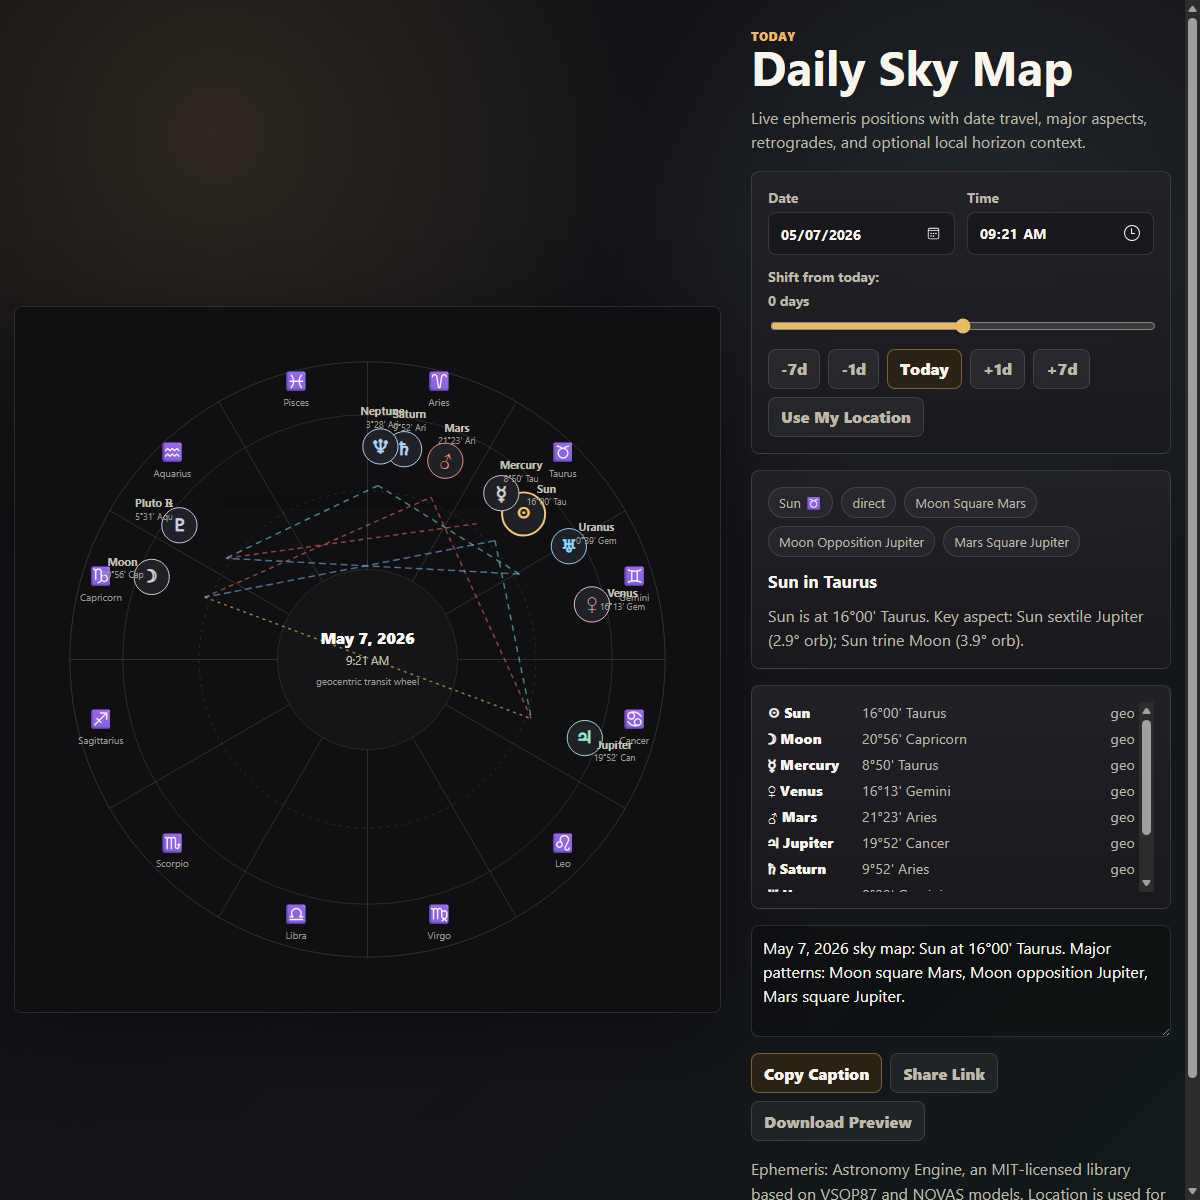
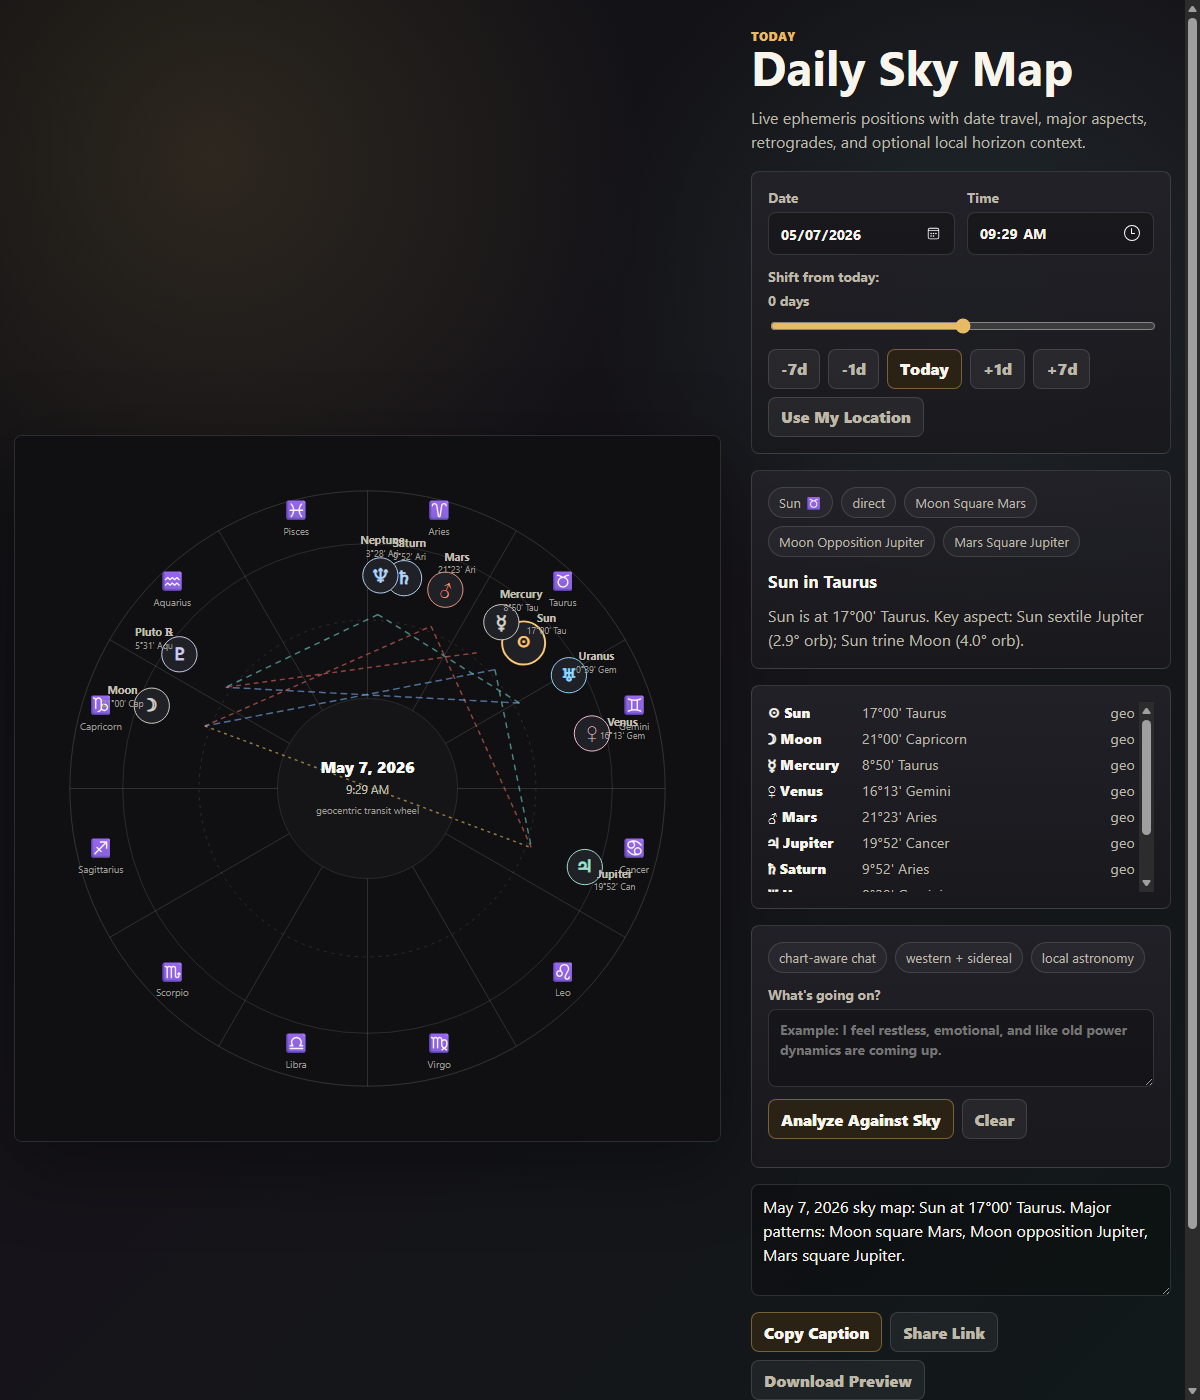
Add chart-aware chat analyzer

diff --git a/index.html b/index.html
@@ -127,6 +127,12 @@
       font: inherit;
     }
 
+    .chat-input {
+      min-height: 78px;
+      resize: vertical;
+      line-height: 1.45;
+    }
+
     input[type="range"] {
       padding: 0;
       accent-color: var(--gold);
@@ -212,6 +218,43 @@
       line-height: 1.5;
     }
 
+    .chat-log {
+      display: grid;
+      gap: 10px;
+      max-height: 260px;
+      overflow: auto;
+      padding-right: 4px;
+    }
+
+    .bubble {
+      border: 1px solid var(--line);
+      border-radius: 8px;
+      padding: 11px 12px;
+      background: rgba(255, 255, 255, 0.045);
+      color: var(--muted);
+      line-height: 1.48;
+      font-size: 0.92rem;
+    }
+
+    .bubble.user {
+      border-color: rgba(231, 187, 102, 0.32);
+      background: rgba(231, 187, 102, 0.08);
+      color: var(--text);
+    }
+
+    .bubble strong {
+      color: var(--text);
+    }
+
+    .bubble ul {
+      margin: 8px 0 0;
+      padding-left: 18px;
+    }
+
+    .bubble li + li {
+      margin-top: 5px;
+    }
+
     .status {
       min-height: 1.35em;
       color: var(--teal);
@@ -289,6 +332,22 @@
         <div class="table" id="planetTable" aria-label="Planet positions"></div>
       </section>
 
+      <section class="panel">
+        <div class="tag-row">
+          <span class="tag">chart-aware chat</span>
+          <span class="tag">western + sidereal</span>
+          <span class="tag">local astronomy</span>
+        </div>
+        <label>What's going on?
+          <textarea class="chat-input" id="chatInput" placeholder="Example: I feel restless, emotional, and like old power dynamics are coming up."></textarea>
+        </label>
+        <div class="actions">
+          <button id="analyzeChat">Analyze Against Sky</button>
+          <button class="secondary" id="clearChat">Clear</button>
+        </div>
+        <div class="chat-log" id="chatLog" aria-live="polite"></div>
+      </section>
+
       <textarea class="caption" id="caption"></textarea>
 
       <div class="actions">
@@ -317,6 +376,8 @@
     const planetTable = document.getElementById('planetTable');
     const caption = document.getElementById('caption');
     const status = document.getElementById('status');
+    const chatInput = document.getElementById('chatInput');
+    const chatLog = document.getElementById('chatLog');
 
     const signs = [
       ['Aries', '♈'], ['Taurus', '♉'], ['Gemini', '♊'], ['Cancer', '♋'],
@@ -345,8 +406,28 @@
       { name: 'Opposition', angle: 180, orb: 6, color: '#e7bb66', dash: '3 4' }
     ];
 
+    const nakshatras = [
+      'Ashwini', 'Bharani', 'Krittika', 'Rohini', 'Mrigashira', 'Ardra', 'Punarvasu', 'Pushya', 'Ashlesha',
+      'Magha', 'Purva Phalguni', 'Uttara Phalguni', 'Hasta', 'Chitra', 'Swati', 'Vishakha', 'Anuradha',
+      'Jyeshtha', 'Mula', 'Purva Ashadha', 'Uttara Ashadha', 'Shravana', 'Dhanishta', 'Shatabhisha',
+      'Purva Bhadrapada', 'Uttara Bhadrapada', 'Revati'
+    ];
+
+    const themeLexicon = [
+      { key: 'pressure', label: 'pressure / conflict', words: ['pressure', 'conflict', 'fight', 'angry', 'anger', 'rage', 'irritated', 'power', 'control', 'intense', 'crisis', 'stuck'], planets: ['Mars', 'Pluto', 'Saturn'], aspects: ['Square', 'Opposition'] },
+      { key: 'restless', label: 'restlessness / mental buzz', words: ['restless', 'wired', 'anxious', 'anxiety', 'scattered', 'busy', 'overthinking', 'talk', 'message', 'text', 'curious', 'bored'], planets: ['Mercury', 'Mars', 'Uranus'], aspects: ['Square', 'Opposition', 'Sextile'] },
+      { key: 'emotional', label: 'emotion / home / sensitivity', words: ['emotional', 'sad', 'cry', 'sensitive', 'home', 'family', 'nostalgic', 'mood', 'heart', 'safe', 'comfort'], planets: ['Moon', 'Venus', 'Jupiter'], aspects: ['Conjunction', 'Trine', 'Opposition'] },
+      { key: 'love', label: 'love / attraction / social weather', words: ['love', 'crush', 'date', 'relationship', 'flirty', 'desire', 'beauty', 'friend', 'social', 'lonely', 'connection'], planets: ['Venus', 'Moon', 'Mars'], aspects: ['Conjunction', 'Sextile', 'Trine', 'Opposition'] },
+      { key: 'work', label: 'work / duty / structure', words: ['work', 'job', 'career', 'deadline', 'responsibility', 'discipline', 'money', 'plan', 'serious', 'tired', 'blocked'], planets: ['Saturn', 'Mercury', 'Sun'], aspects: ['Square', 'Trine', 'Opposition'] },
+      { key: 'spiritual', label: 'dreams / intuition / confusion', words: ['dream', 'dreams', 'spiritual', 'weird', 'foggy', 'confused', 'psychic', 'sign', 'meaning', 'vision', 'escape'], planets: ['Neptune', 'Moon', 'Jupiter'], aspects: ['Conjunction', 'Square', 'Trine'] },
+      { key: 'change', label: 'change / disruption / breakthrough', words: ['change', 'sudden', 'surprise', 'breakthrough', 'freedom', 'chaos', 'technology', 'online', 'future', 'rebellious'], planets: ['Uranus', 'Pluto', 'Mercury'], aspects: ['Square', 'Opposition', 'Sextile'] }
+    ];
+
     let selected = 'Sun';
     let observer = null;
+    let latestData = [];
+    let latestAspects = [];
+    let latestDate = new Date();
 
     function pad(n) { return String(n).padStart(2, '0'); }
     function localDateValue(date) { return `${date.getFullYear()}-${pad(date.getMonth() + 1)}-${pad(date.getDate())}`; }
@@ -362,6 +443,13 @@
       const lon = normalize(longitude);
       const index = Math.floor(lon / 30);
       return { name: signs[index][0], glyph: signs[index][1], degree: lon % 30, index };
+    }
+    function siderealInfo(longitude) {
+      const siderealLongitude = normalize(longitude - 24.2);
+      const sign = signInfo(siderealLongitude);
+      const mansionSize = 360 / 27;
+      const mansion = nakshatras[Math.floor(siderealLongitude / mansionSize)];
+      return { longitude: siderealLongitude, sign, nakshatra: mansion };
     }
     function fmtDegree(deg) {
       const whole = Math.floor(deg);
@@ -426,6 +514,89 @@
         }
       }
       return found.sort((x, y) => x.orb - y.orb).slice(0, 10);
+    }
+    function currentSkySignature(data, aspectData) {
+      const moon = data.find((item) => item.key === 'Moon');
+      const sun = data.find((item) => item.key === 'Sun');
+      const retrogrades = data.filter((item) => item.retrograde).map((item) => item.key);
+      const tight = aspectData.slice(0, 4).map((item) => `${item.a.key} ${item.aspect.name.toLowerCase()} ${item.b.key}`);
+      const moonPhase = normalize(moon.longitude - sun.longitude);
+      const phaseName = moonPhase < 45 ? 'new-to-crescent' : moonPhase < 135 ? 'waxing' : moonPhase < 225 ? 'full-to-disseminating' : 'waning';
+      return { moon, sun, retrogrades, tight, moonPhase, phaseName };
+    }
+    function detectThemes(text) {
+      const lower = text.toLowerCase();
+      return themeLexicon.map((theme) => {
+        const hits = theme.words.filter((word) => new RegExp(`\\b${word}\\b`, 'i').test(lower));
+        return { ...theme, hits, score: hits.length };
+      }).filter((theme) => theme.score > 0).sort((a, b) => b.score - a.score);
+    }
+    function aspectSupportsTheme(theme, aspectData) {
+      return aspectData.filter((item) => {
+        const names = [item.a.key, item.b.key];
+        return names.some((name) => theme.planets.includes(name)) && theme.aspects.includes(item.aspect.name);
+      }).slice(0, 3);
+    }
+    function planetLine(name, data) {
+      const planet = data.find((item) => item.key === name);
+      if (!planet) return '';
+      const sidereal = siderealInfo(planet.longitude);
+      return `${planet.key}: tropical ${fmtDegree(planet.sign.degree)} ${planet.sign.name}; sidereal ${fmtDegree(sidereal.sign.degree)} ${sidereal.sign.name}, ${sidereal.nakshatra}`;
+    }
+    function escapeHtml(text) {
+      return text.replace(/[&<>"']/g, (char) => ({ '&': '&amp;', '<': '&lt;', '>': '&gt;', '"': '&quot;', "'": '&#39;' }[char]));
+    }
+    function addChatBubble(html, type = 'app') {
+      const bubble = document.createElement('div');
+      bubble.className = `bubble ${type}`;
+      bubble.innerHTML = html;
+      chatLog.append(bubble);
+      chatLog.scrollTop = chatLog.scrollHeight;
+    }
+    function analyzeAgainstSky(text) {
+      const data = latestData;
+      const aspectData = latestAspects;
+      const signature = currentSkySignature(data, aspectData);
+      const themes = detectThemes(text);
+      const topTheme = themes[0];
+      const moonSidereal = siderealInfo(signature.moon.longitude);
+      const sunSidereal = siderealInfo(signature.sun.longitude);
+      const astronomyNotes = data
+        .filter((item) => item.horizon)
+        .sort((a, b) => b.horizon.altitude - a.horizon.altitude)
+        .slice(0, 2)
+        .map((item) => `${item.key} is ${item.horizon.altitude >= 0 ? 'above' : 'below'} your horizon at ${item.horizon.altitude.toFixed(1)}° altitude`);
+
+      if (!themes.length) {
+        return `
+          <strong>Reading the sky first:</strong>
+          <ul>
+            <li>Western: Moon in ${signature.moon.sign.name}, Sun in ${signature.sun.sign.name}; strongest patterns include ${signature.tight.join(', ') || 'no tight major aspects'}.</li>
+            <li>Eastern/sidereal: Moon in ${moonSidereal.sign.name} / ${moonSidereal.nakshatra}; Sun in ${sunSidereal.sign.name}.</li>
+            <li>Try adding a few plain words for what you feel, like "restless", "emotional", "blocked", "flirty", or "power struggle".</li>
+          </ul>
+        `;
+      }
+
+      const supports = aspectSupportsTheme(topTheme, aspectData);
+      const relatedPlanets = topTheme.planets.map((name) => planetLine(name, data)).filter(Boolean).slice(0, 3);
+      const score = Math.min(95, 38 + topTheme.score * 13 + supports.length * 11 + topTheme.planets.filter((name) => data.find((planet) => planet.key === name)?.retrograde).length * 6);
+      const supportText = supports.length
+        ? supports.map((item) => `${item.a.key} ${item.aspect.name.toLowerCase()} ${item.b.key} (${item.orb.toFixed(1)}° orb)`).join('; ')
+        : 'no tight major aspect directly matches that theme, so this reads more like background weather than a sharp transit signature';
+      const retroText = signature.retrogrades.length ? `${signature.retrogrades.join(', ')} retrograde` : 'no major planet retrograde in this set';
+      const astroText = astronomyNotes.length ? astronomyNotes.join('; ') : 'enable location to compare your words with what is literally above or below the local horizon';
+
+      return `
+        <strong>What tracks: ${topTheme.label} (${score}% resonance)</strong>
+        <ul>
+          <li>Western/tropical: ${supportText}. Moon phase is ${signature.phaseName}, with Moon in ${signature.moon.sign.name}.</li>
+          <li>Eastern/sidereal: Moon maps to ${moonSidereal.sign.name} / ${moonSidereal.nakshatra}; Sun maps to ${sunSidereal.sign.name}. This gives a second-symbol layer without changing the underlying astronomy.</li>
+          <li>Astronomy layer: ${astroText}.</li>
+          <li>Planet anchors: ${relatedPlanets.join(' | ')}.</li>
+          <li>Cross-check: ${retroText}. ${themes.length > 1 ? `Secondary themes detected: ${themes.slice(1, 3).map((theme) => theme.label).join(', ')}.` : 'No strong secondary theme detected from your wording.'}</li>
+        </ul>
+      `;
     }
     function drawWheel(data, aspectData, date) {
       clearSvg();
@@ -536,6 +707,9 @@
       if (Number.isNaN(date.getTime())) return;
       const data = calculate(date);
       const aspectData = calculateAspects(data);
+      latestData = data;
+      latestAspects = aspectData;
+      latestDate = date;
       drawWheel(data, aspectData, date);
       renderTable(data);
       renderInsight(data, aspectData, date);
@@ -587,6 +761,24 @@
         caption.select();
         setStatus('Caption selected.');
       }
+    });
+    document.getElementById('analyzeChat').addEventListener('click', () => {
+      const text = chatInput.value.trim();
+      if (!text) {
+        setStatus('Type what is going on first.');
+        return;
+      }
+      addChatBubble(escapeHtml(text), 'user');
+      addChatBubble(analyzeAgainstSky(text));
+      chatInput.value = '';
+    });
+    chatInput.addEventListener('keydown', (event) => {
+      if ((event.ctrlKey || event.metaKey) && event.key === 'Enter') {
+        document.getElementById('analyzeChat').click();
+      }
+    });
+    document.getElementById('clearChat').addEventListener('click', () => {
+      chatLog.replaceChildren();
     });
     document.getElementById('sharePage').addEventListener('click', async () => {
       const shareData = { title: document.title, text: caption.value, url: window.location.href };

diff --git a/README.md b/README.md
@@ -14,6 +14,7 @@ What it does:
 - Calculates Sun, Moon, Mercury, Venus, Mars, Jupiter, Saturn, Uranus, Neptune, and Pluto positions.
 - Highlights major aspects and retrograde status.
 - Adds a "Use My Location" option for local altitude/azimuth horizon context.
+- Includes a local chart-aware chat analyzer that compares user-entered themes against the current tropical chart, approximate sidereal/Vedic positions, nakshatras, and local astronomy context.
 
 Publishing notes:
 
@@ -25,6 +26,7 @@ Ephemeris source:
 - Astronomy Engine by Don Cross / cosinekitty: https://github.com/cosinekitty/astronomy
 - It is MIT licensed and based on VSOP87 and NOVAS models.
 - I looked at `ryuphi/astrology-api`, but it is a server-side Swiss Ephemeris REST API requiring Node/native dependencies, so it is not a good fit for a static GitHub Pages app.
+- The sidereal layer uses an approximate Lahiri-style ayanamsa offset for lightweight browser interpretation, not a full Vedic chart engine.
 
 Suggested caption:
 